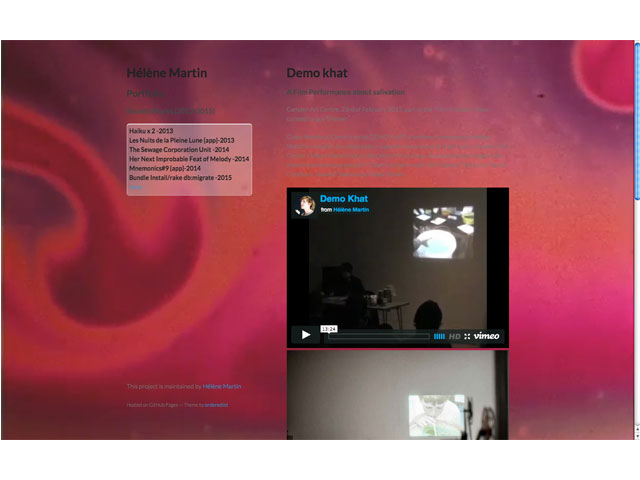
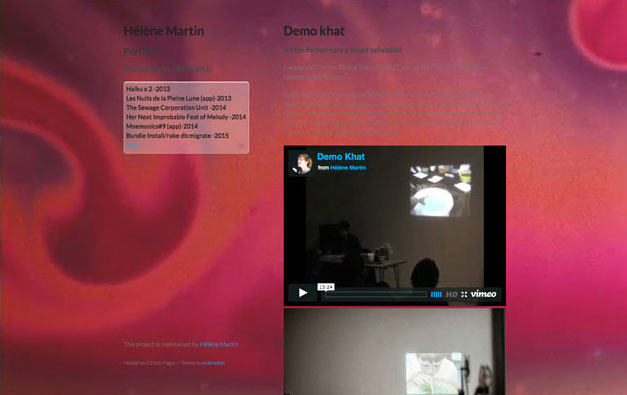
work on carousel indicators, resize images with vw

diff --git a/index.html b/index.html
@@ -45,15 +45,7 @@
 
       <div id="carousel-example-generic" class="carousel slide" data-ride="carousel">
         <!-- Indicators -->
-        <ol class="carousel-indicators">
-          <li data-target="#carousel-example-generic" data-slide-to="0" class="active"></li>
-          <li data-target="#carousel-example-generic" data-slide-to="1"></li>
-          <li data-target="#carousel-example-generic" data-slide-to="2"></li>
-          <li data-target="#carousel-example-generic" data-slide-to="3"></li>
-          <li data-target="#carousel-example-generic" data-slide-to="4"></li>
-          <li data-target="#carousel-example-generic" data-slide-to="5"></li>
-          <li data-target="#carousel-example-generic" data-slide-to="6"></li>
-        </ol>
+       
 
         <!-- Wrapper for slides -->
         <div class="carousel-inner">
@@ -108,6 +100,15 @@
         <a class="right carousel-control" href="#carousel-example-generic" data-slide="next">
           <span class="glyphicon glyphicon-chevron-right"></span>
         </a>
+         <ol class="carousel-indicators">
+          <li data-target="#carousel-example-generic" data-slide-to="0" class="active"></li>
+          <li data-target="#carousel-example-generic" data-slide-to="1"></li>
+          <li data-target="#carousel-example-generic" data-slide-to="2"></li>
+          <li data-target="#carousel-example-generic" data-slide-to="3"></li>
+          <li data-target="#carousel-example-generic" data-slide-to="4"></li>
+          <li data-target="#carousel-example-generic" data-slide-to="5"></li>
+          <li data-target="#carousel-example-generic" data-slide-to="6"></li>
+        </ol>
       </div><!-- .carousel --> 
     </div><!-- .banner --> 
 

diff --git a/css/main.css b/css/main.css
@@ -13,32 +13,34 @@ h2 {
   font-size: 15px;
 }
 
-.banner img {
-  width: 100%;
-}
 .carousel-inner{
-  height: 450px;
+  /*height: 450px;*/
 }
 .carousel-caption {
 
     padding: 5px;
-    margin-bottom: 80px;
     background-color: #525D72;
     opacity: 0.7;
     border-radius: 5px;
     font-size: 2.5rem;
 }
 .carousel .item {
-  height: 500px;
+  /*height: 500px;*/
 }
 
-/*.item img {
-    position: absolute;
-    top: 0;
-    left: 350px;
-    width: 50%;
+.carousel-indicators {
+  bottom: -40px;
+
 }
-*/
+.carousel-indicators li {
+  border-color: #000;
+}
+
+.carousel-indicators li.active {
+  background-color: #000;
+}
+
+
 .marketing .row {
 	text-align: center;	
 }
@@ -74,7 +76,8 @@ h2.featurette-heading {
 }
 
 .item img {
-  width: 100%;
+  margin: 0 auto;
+  max-height: 45vw;
 }
 
 .companies img {
@@ -108,7 +111,16 @@ footer {
 	padding: 40px;
 }
 
+@media only screen and (max-width: 480px){
+  .item img {
+    max-height: 45vw;
+  }
+  .banner {
+    width: 100%;
+    margin-top: 0;
+  }
 
+}
 
 @media only screen and (max-width: 991px) {
   .portrait img {
